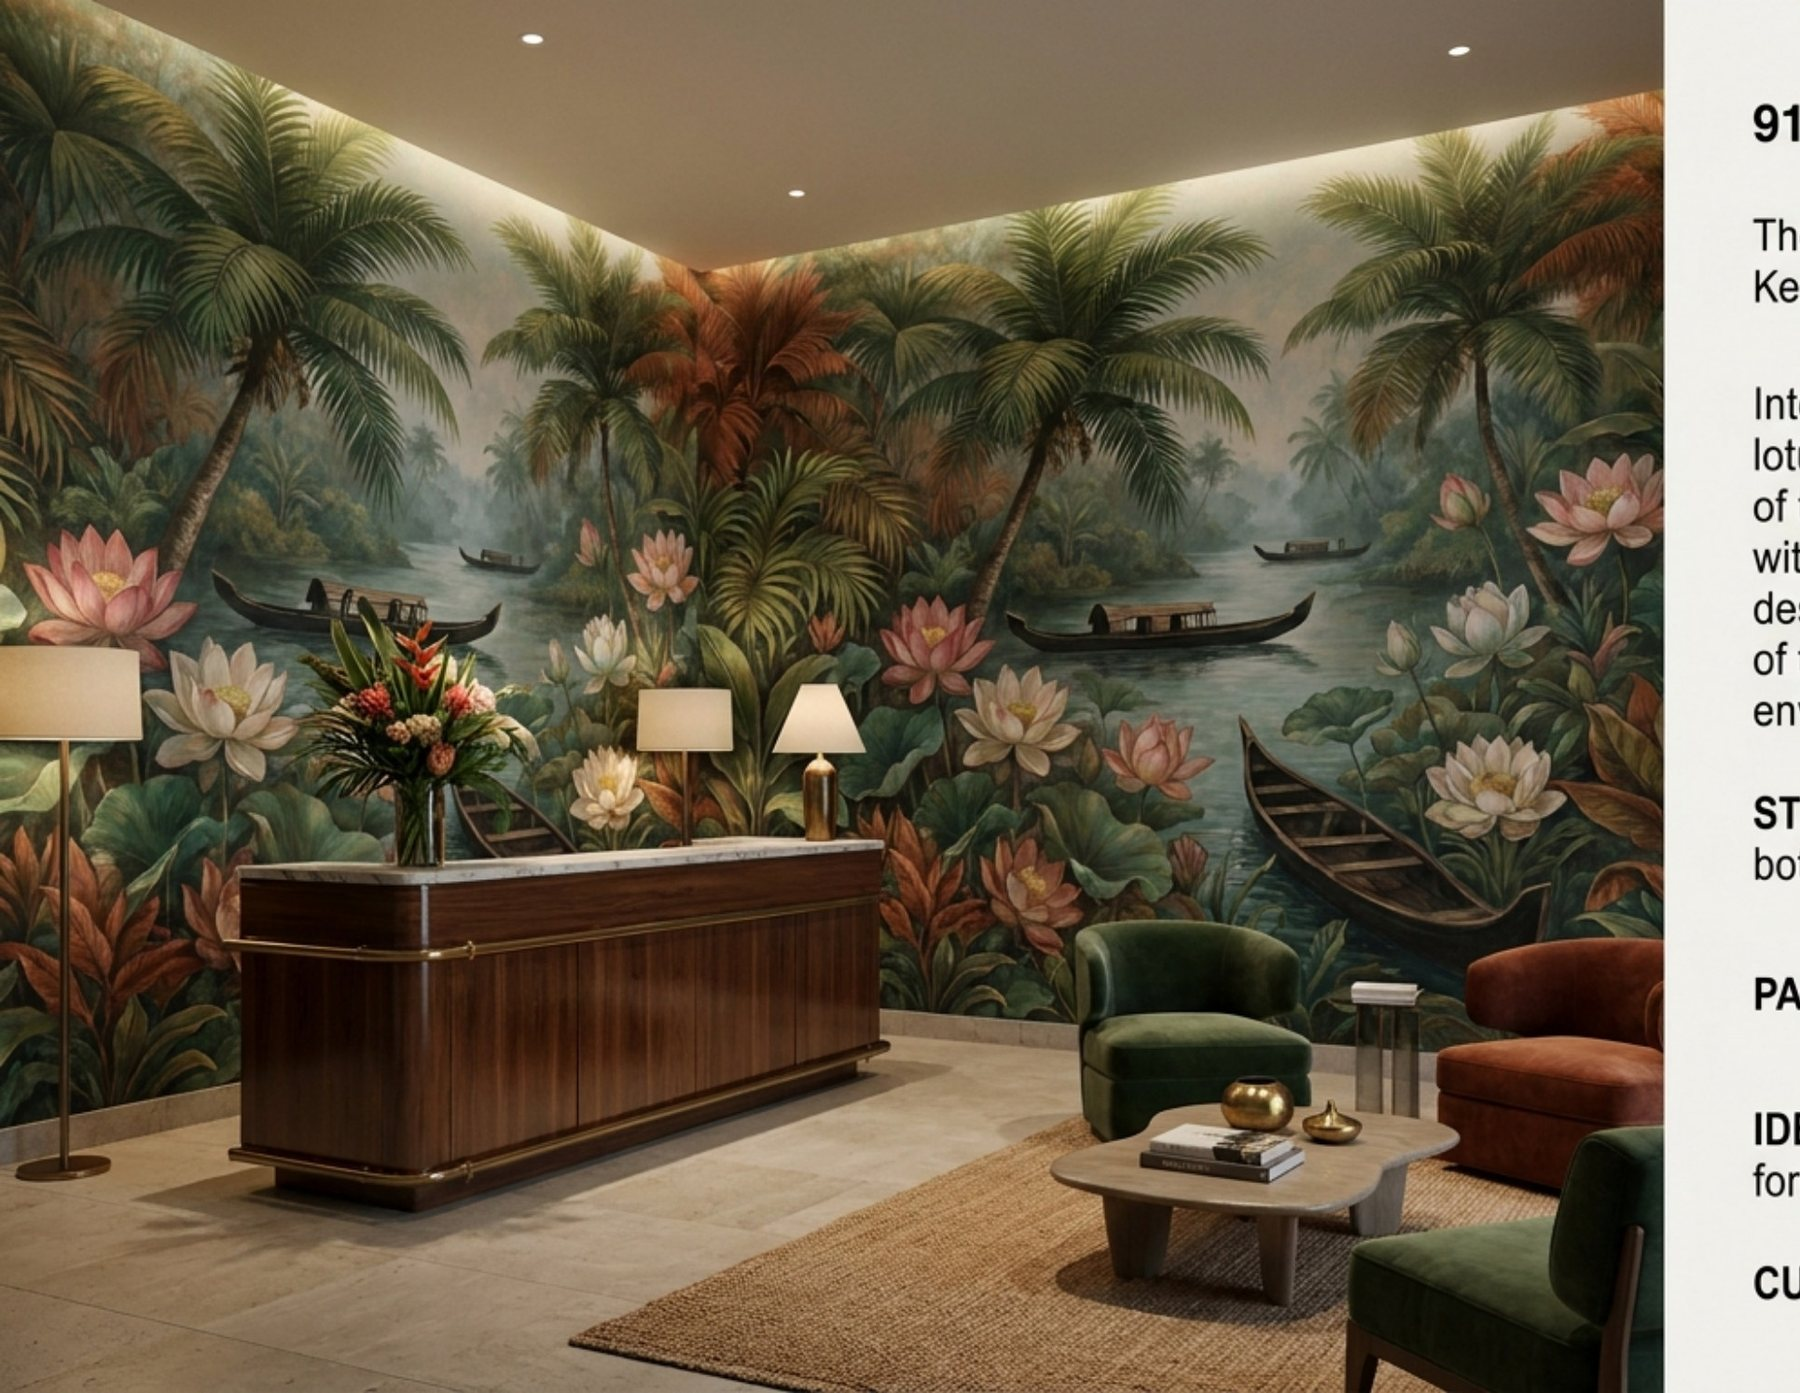
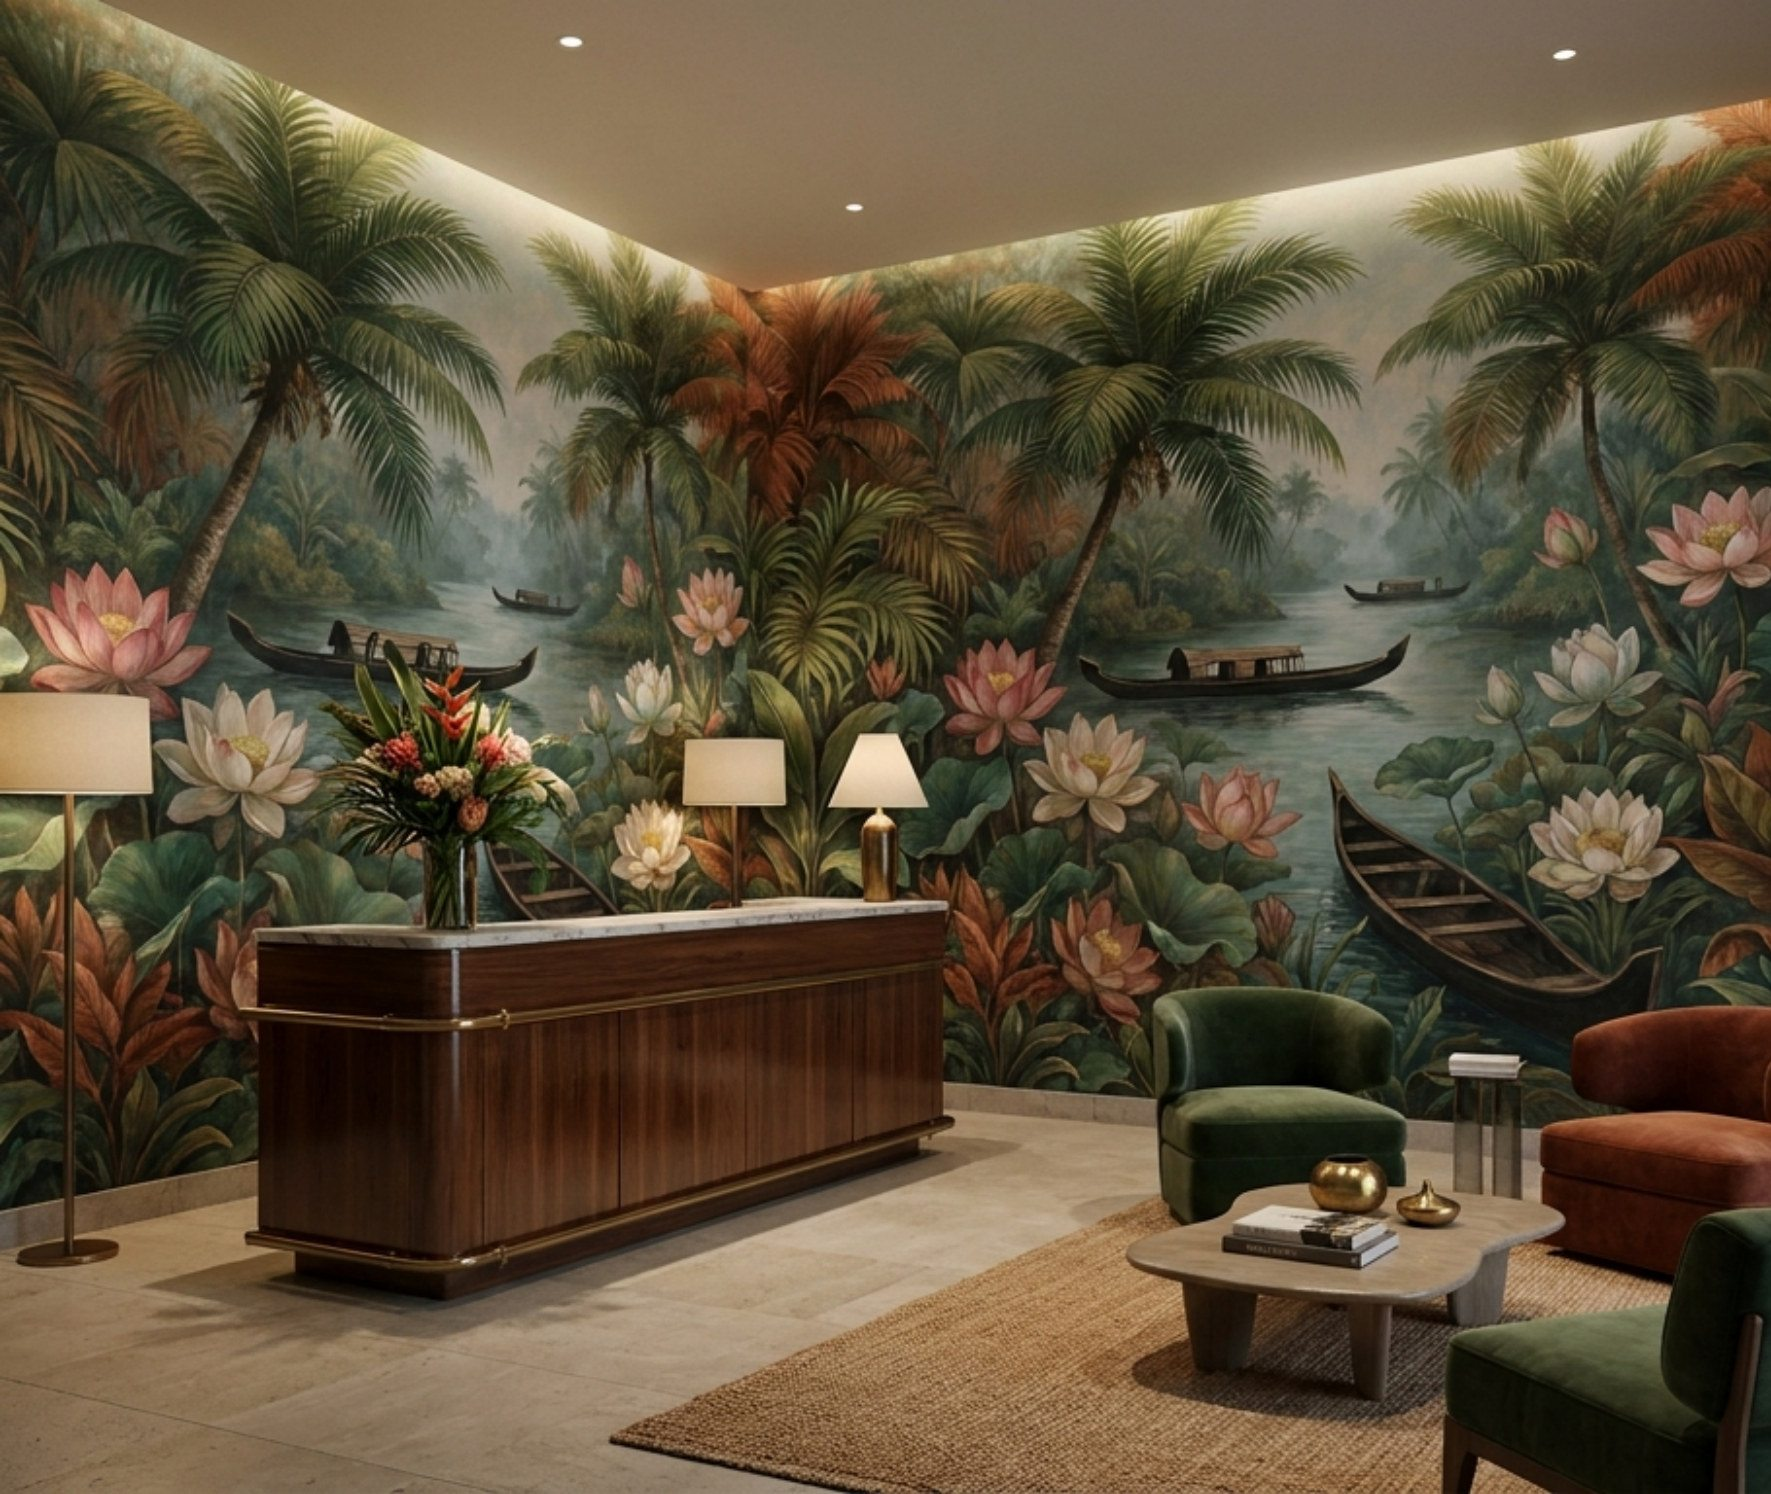
Hero shows every design complete — never cropped or zoomed
- Slides now object-fit: contain on the dark ground: the full artwork
  is always visible exactly as-is at any screen shape.
- Backwater Botanica re-cropped with detected text-column boundary;
  no written matter remains in any slide.
- The Palace Lake opens the slideshow.

diff --git a/index.html b/index.html
@@ -134,8 +134,10 @@ provenance.
 
     <!-- ======================= HERO ======================= -->
     <section class="hero" aria-label="Wall Jewels — where walls become art">
-      <div class="hero__media" data-plx="0.18">
-        <div class="slide is-on"><img src="assets/img/collection/slide-madurai-mandala.jpg" data-title="Mandala of Madurai · Divine Geometry" alt="Mandala of Madurai — temple-plan mandalas in muted pink and deep blue behind a long dining table" fetchpriority="high"></div>
+      <div class="hero__media">
+        <div class="slide is-on"><img src="assets/img/collection/slide-palace-lake.jpg" data-title="The Palace Lake · Lightbox Collection" alt="The Palace Lake — a backlit ivory relief of domes, lotuses and still water" fetchpriority="high"></div>
+        <div class="slide"><img src="assets/img/collection/slide-night-metropolis.jpg" data-title="Night Metropolis · Lightbox Collection" alt="Night Metropolis — a carved gold-on-black skyline with pavilion and crescent moon" loading="lazy"></div>
+        <div class="slide"><img src="assets/img/collection/slide-madurai-mandala.jpg" data-title="Mandala of Madurai · Divine Geometry" alt="Mandala of Madurai — temple-plan mandalas in muted pink and deep blue behind a long dining table" loading="lazy"></div>
         <div class="slide"><img src="assets/img/collection/slide-tanjore-echoes.jpg" data-title="Tanjore Echoes · Southern Heritage" alt="Tanjore Echoes — embossed gold peacocks over deep burgundy behind a velvet chaise" loading="lazy"></div>
         <div class="slide"><img src="assets/img/collection/slide-navy-chevron.jpg" data-title="Deco Chevron · Contemporary" alt="Deco Chevron — navy and gold chevron panels wrapping a private home theatre" loading="lazy"></div>
         <div class="slide"><img src="assets/img/collection/botanical-emerald-print.jpg" data-title="Emerald Block Print · Kala Rasa" alt="Emerald Block Print — white florals on committed green behind cane seating" loading="lazy"></div>
@@ -143,16 +145,14 @@ provenance.
         <div class="slide"><img src="assets/img/collection/slide-tropical-lobby.jpg" data-title="Backwater Botanica · Tropical South" alt="Backwater Botanica — a Kerala backwaters mural of palms, lotuses and boats wrapping a hotel lobby" loading="lazy"></div>
         <div class="slide"><img src="assets/img/collection/slide-monsoon-corridor.jpg" data-title="Temple Garden Monsoon · Tropical South" alt="Temple Garden Monsoon — a painted corridor of moss-covered temple stones under rain" loading="lazy"></div>
         <div class="slide"><img src="assets/img/collection/space-resort-cove.jpg" data-title="The Resort Cove · Tropical South" alt="The Resort Cove — an ocean-cliff panorama opening a lounge to the sea" loading="lazy"></div>
-        <div class="slide"><img src="assets/img/collection/slide-night-metropolis.jpg" data-title="Night Metropolis · Lightbox Collection" alt="Night Metropolis — a carved gold-on-black skyline with pavilion and crescent moon" loading="lazy"></div>
-        <div class="slide"><img src="assets/img/collection/slide-palace-lake.jpg" data-title="The Palace Lake · Lightbox Collection" alt="The Palace Lake — a backlit ivory relief of domes, lotuses and still water" loading="lazy"></div>
       </div>
       <div class="hero__dots" role="group" aria-label="Choose the design on show"></div>
       <div class="hero__scrim"></div>
       <h1 class="sr-only">Wall Jewels Wallpaper World — where walls become art. Since 1978, Chennai.</h1>
       <div class="hero__bar">
         <div class="hero__info">
-          <p class="hero__dname" aria-live="polite">Mandala of Madurai</p>
-          <p class="hero__dmeta">Divine Geometry · Where walls become art — since 1978</p>
+          <p class="hero__dname" aria-live="polite">The Palace Lake</p>
+          <p class="hero__dmeta">Lightbox Collection · Where walls become art — since 1978</p>
         </div>
         <div class="hero__act">
           <a class="btn btn--fill btn--sm" href="collection.html"><span class="dot-a"></span>Explore the collections</a>

diff --git a/assets/css/styles.css b/assets/css/styles.css
@@ -446,16 +446,18 @@ main::before {
   overflow: clip;
   border: 1px solid rgba(242, 237, 222, .12);
 }
-.hero__media { position: absolute; inset: -10% 0; z-index: -2; }
+.hero__media { position: absolute; inset: 0; z-index: -2; }
 .hero__media .slide {
   position: absolute; inset: 0;
   opacity: 0;
   transition: opacity 1.1s var(--ease);
 }
 .hero__media .slide.is-on { opacity: 1; }
+/* every design shows COMPLETE — never cropped, never zoomed */
+.hero__media { background: var(--ground-deep); }
 .hero__media .slide img {
-  width: 100%; height: 100%; object-fit: cover;
-  object-position: 55% 42%;
+  width: 100%; height: 100%; object-fit: contain;
+  object-position: center 46%;
   cursor: zoom-in;
 }
 .hero__dots {
